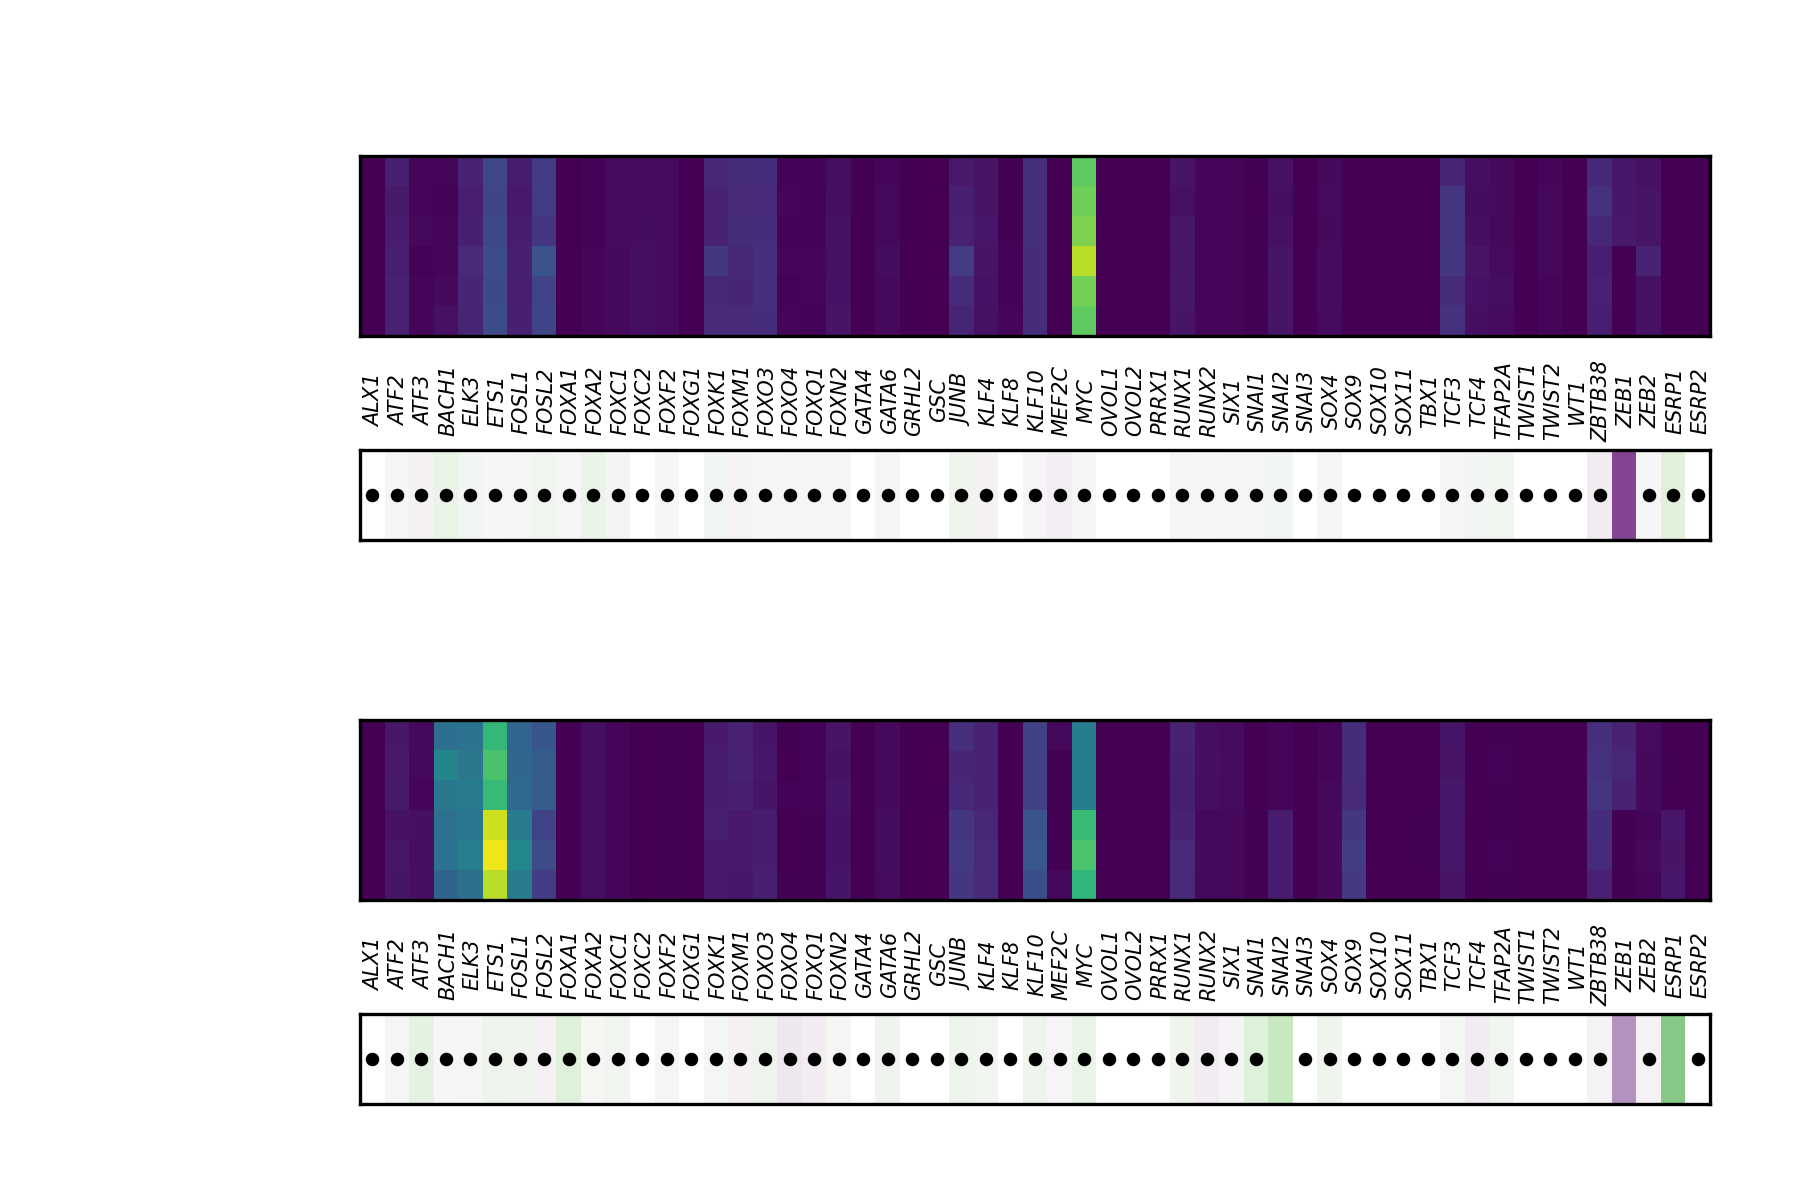
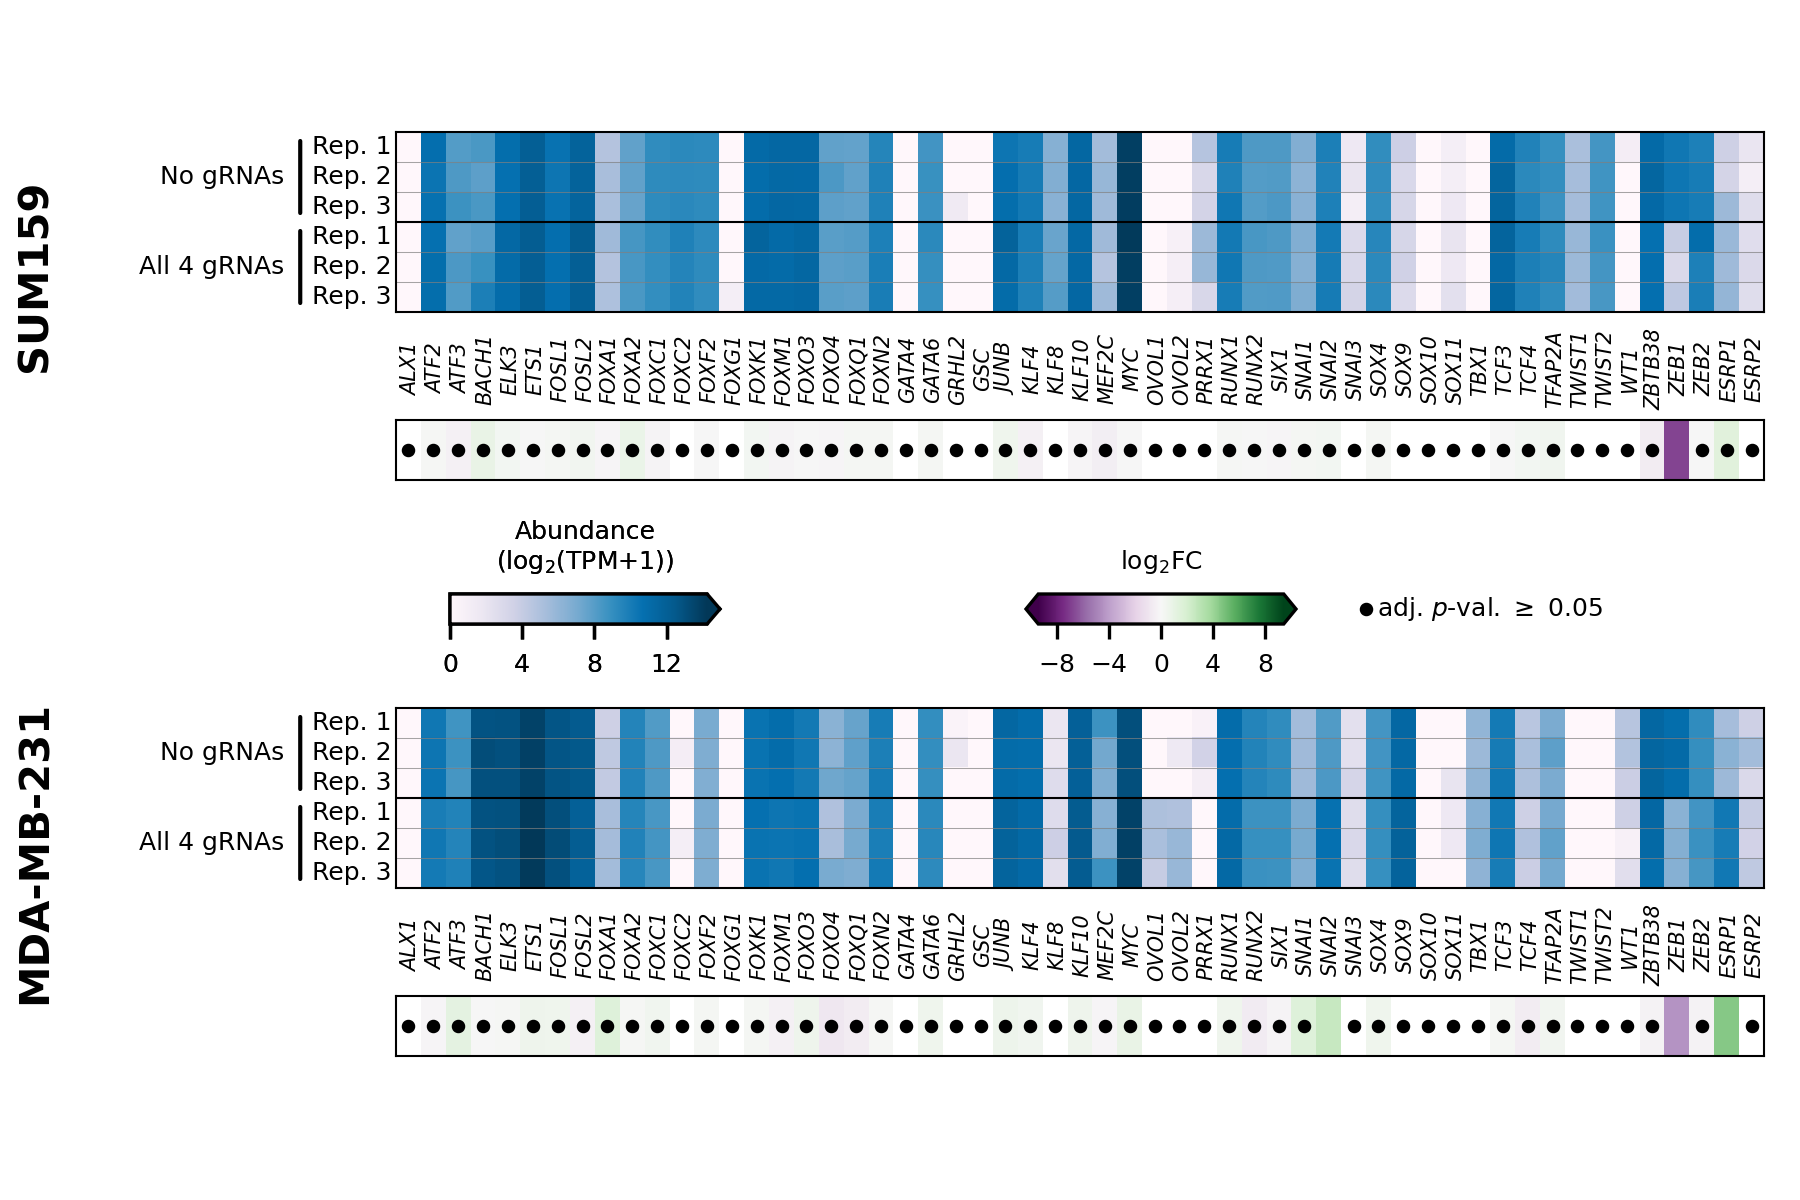
Added most of the required annotations

diff --git a/script/rnaseq_figures.py b/script/rnaseq_figures.py
@@ -1913,13 +1913,27 @@ class Plot:
 
     def emt_tfs(flagResult=False):
 
-        dictPanelPos = {'SUM159_Abund':[0.20, 0.72, 0.75, 0.15],
-                        'SUM159_logFC':[0.20, 0.55, 0.75, 0.075],
-                        'MDAMB231_Abund':[0.20, 0.25, 0.75, 0.15],
-                        'MDAMB231_logFC':[0.20, 0.08, 0.75, 0.075],
-                        'Legend_Abund':[0.25, 0.34, 0.08, 0.025],
-                        'Legend_logFC':[0.535, 0.34, 0.08, 0.025],
-                        'Legend_pVal':[0.82, 0.34, 0.08, 0.025]}
+        numMatchedPanelYSpacer = 0.14
+        numSUM159BaseYPos = 0.60
+        numMDAMB231BaseYPos = 0.12
+        numLogFCHeight = 0.05
+        numAbundHeight = 0.15
+        numMainPanelWidth = 0.76
+        numMainPanelLeft = 0.22
+
+        numLegendPanelYPos = 0.48
+        numLegendPanelWidth = 0.15
+
+        dictPanelPos = {'SUM159_Abund':[numMainPanelLeft, numSUM159BaseYPos+numMatchedPanelYSpacer, numMainPanelWidth, numAbundHeight],
+                        'SUM159_logFC':[numMainPanelLeft, numSUM159BaseYPos, numMainPanelWidth, numLogFCHeight],
+                        'MDAMB231_Abund':[numMainPanelLeft, numMDAMB231BaseYPos+numMatchedPanelYSpacer, numMainPanelWidth, numAbundHeight],
+                        'MDAMB231_logFC':[numMainPanelLeft, numMDAMB231BaseYPos, numMainPanelWidth, numLogFCHeight],
+                        'Legend_Abund':[0.25, numLegendPanelYPos, numLegendPanelWidth, 0.025],
+                        'Legend_logFC':[0.57, numLegendPanelYPos, numLegendPanelWidth, 0.025],
+                        'Legend_pVal':[0.75, numLegendPanelYPos, numLegendPanelWidth, 0.025]}
+
+        dictLineLabel = {'MDAMB231':'MDA-MB-231',
+                         "SUM159":'SUM159'}
 
         listTFs = ['ALX1', 'ATF2', 'ATF3', 'BACH1', 'ELK3', 'ETS1', 'FOSL1', 'FOSL2',
                    'FOXA1', 'FOXA2', 'FOXC1', 'FOXC2', 'FOXF2', 'FOXG1', 'FOXK1', 'FOXM1', 'FOXO3', 'FOXO4', 'FOXQ1',
@@ -1945,8 +1959,9 @@ class Plot:
         dfAbundOfInt = dfAbund.reindex(listGenesOfIntENSG).copy(deep=True)
         dfAbundOfInt.index = listGenesOfInt
 
-        arrayAllAbundData = dfAbundOfInt.values.astype(float)
-        numMaxAbund = np.max(np.abs(np.ravel(arrayAllAbundData[~np.isnan(arrayAllAbundData)])))
+        arrayAllLogAbundData = np.log2(np.nan_to_num(dfAbundOfInt.values.astype(float))+1)
+
+        numMaxAbund = np.max(np.ravel(arrayAllLogAbundData[~np.isnan(arrayAllLogAbundData)]))
 
 
         # load the logFC data
@@ -1972,24 +1987,99 @@ class Plot:
             elif strLine == 'MDAMB231':
                 strBatch = 'B2'
 
+            numCellLineYPos = dictPanelPos[f'{strLine}_logFC'][1]\
+                              + (dictPanelPos[f'{strLine}_Abund'][3] +
+                                 dictPanelPos[f'{strLine}_logFC'][3] +
+                                 numMatchedPanelYSpacer)/2
+
+            handFig.text(0.02, numCellLineYPos, dictLineLabel[strLine],
+                         ha='center', va='center', rotation=90,
+                         fontsize=10, fontweight='bold')
+
             listAbundCols = [f'{strBatch}_{strLine}_EVC_{i+1}' for i in range(3)] + \
                             [f'{strBatch}_{strLine}_gAll_{i+1}' for i in range(3)]
 
+            arrayLogAbundData = \
+                np.log2(np.nan_to_num(dfAbundOfInt[listAbundCols].transpose().values.astype(float)) + 1)
+
             handAx = handFig.add_axes(dictPanelPos[f'{strLine}_Abund'])
-            handAx.matshow(dfAbundOfInt[listAbundCols].transpose().values.astype(float),
-                           cmap=plt.cm.viridis,
+            handAbund = handAx.matshow(arrayLogAbundData,
+                           cmap=plt.cm.PuBu,
                            vmin=0,
                            vmax=numMaxAbund,
                            aspect='auto')
+            for iAnnotLine in range(5):
+                handAx.axhline(xmin=0, xmax=1,
+                               y=iAnnotLine+0.5,
+                               color='0.5', lw=0.25,
+                               ls='-', alpha=0.7)
+            handAx.axhline(xmin=0, xmax=1,
+                               y=2.5,
+                               color='k', lw=0.5,
+                               ls='-', alpha=1)
+
+            for iRep in range(3):
+                handAx.text(-0.7, iRep,f'Rep. {iRep+1}',
+                            ha='right', va='center',
+                            fontsize=6)
+            for iRep in range(3):
+                handAx.text(-0.7, iRep+3,f'Rep. {iRep+1}',
+                            ha='right', va='center',
+                            fontsize=6)
+
+            handAx.annotate(text='',
+                            xytext=(-0.07, 0.45),
+                            xy=(-0.07, 0.05),
+                            xycoords='axes fraction',
+                            textcoords='axes fraction',
+                            annotation_clip=False,
+                            arrowprops=dict(arrowstyle="-",
+                                            connectionstyle="arc3",
+                                            shrinkA=0.0, shrinkB=0.0,
+                                            color='k',
+                                            lw=1))
+            handAx.text(-5, 1,
+                        'No gRNAs',
+                        ha='right', va='center',
+                        fontsize=6)
+
+            handAx.annotate(text='',
+                            xytext=(-0.07, 0.55),
+                            xy=(-0.07, 0.95),
+                            xycoords='axes fraction',
+                            textcoords='axes fraction',
+                            annotation_clip=False,
+                            arrowprops=dict(arrowstyle="-",
+                                            connectionstyle="arc3",
+                                            shrinkA=0.0, shrinkB=0.0,
+                                            color='k',
+                                            lw=1))
+            handAx.text(-5, 4,
+                        'All 4 gRNAs',
+                        ha='right', va='center',
+                        fontsize=6)
 
             handAx.set_yticks([])
             handAx.set_xticks([])
             handAx.set_yticklabels([])
             handAx.set_xticklabels([])
 
+            for axis in ['top', 'bottom', 'left', 'right']:
+                handAx.spines[axis].set_linewidth(0.5)
+
+            handCMapAx = handFig.add_axes(dictPanelPos['Legend_Abund'])
+            handRNAColorBar = handFig.colorbar(handAbund, cax=handCMapAx, ticks=[0, 4, 8, 12],
+                                               orientation='horizontal', extend='max')
+            handRNAColorBar.ax.tick_params(labelsize=6)
+
+            handCMapAx.set_title('Abundance\n(log$_{2}$(TPM+1))',
+                                 fontsize=6)
+
+            for axis in ['top', 'bottom', 'left', 'right']:
+                handCMapAx.spines[axis].set_linewidth(0.5)
 
             handAx = handFig.add_axes(dictPanelPos[f'{strLine}_logFC'])
-            handAx.matshow(dflogFCInt[[f'{strLine}:logFC']].transpose().values.astype(float),
+            handLogFC = handAx.matshow(dflogFCInt[[f'{strLine}:logFC']].transpose().values.astype(float),
                            cmap=plt.cm.PRGn,
                            vmin=-numMaxAbsLogFC,
                            vmax=numMaxAbsLogFC,
@@ -2000,10 +2090,7 @@ class Plot:
             handAx.set_yticklabels([])
             handAx.set_xticklabels([])
 
-            # if iLine == 0:
-            strGeneLabelYPos = -1.05
-            # elif iLine == 1:
-            # strGeneLabelYPos = 1
+            strGeneLabelYPos = -1.35
 
             for iGene in range(len(listGenesOfInt)):
                 handAx.text(iGene+0.5,
@@ -2019,17 +2106,45 @@ class Plot:
                 if np.isnan(dflogFCInt.loc[strGene, f'{strLine}:adj.P.Val']):
                     handAx.scatter(iGene, 0, marker='o', color='k', s=5)
                 else:
-                    if dflogFCInt.loc[strGene, f'{strLine}:adj.P.Val'].astype(float) < 0.05:
-                        a=1
-                    else:
+                    if dflogFCInt.loc[strGene, f'{strLine}:adj.P.Val'].astype(float) >= 0.05:
                         handAx.scatter(iGene, 0, marker='o', color='k', s=5)
 
+            for axis in ['top', 'bottom', 'left', 'right']:
+                handAx.spines[axis].set_linewidth(0.5)
 
-        # handAx.text(0.01, )
+        handCMapAx = handFig.add_axes(dictPanelPos['Legend_logFC'])
+        handRNAColorBar = handFig.colorbar(handLogFC, cax=handCMapAx, ticks=[-8, -4, 0, 4, 8],
+                                           orientation='horizontal', extend='both')
+        handRNAColorBar.ax.tick_params(labelsize=6)
+
+        handCMapAx.set_title('log$_{2}$FC',
+                             fontsize=6)
+
+        for axis in ['top', 'bottom', 'left', 'right']:
+            handCMapAx.spines[axis].set_linewidth(0.5)
+
+
+        handPValAx = handFig.add_axes(dictPanelPos['Legend_pVal'])
+        handPValAx.set_xlim([0, 1])
+        handPValAx.set_ylim([0, 1])
+
+        handPValAx.scatter(0.06, 0.5, marker='o', color='k', s=5)
+        handPValAx.text(0.10, 0.5, r'adj. $p$-val. $\geq$ 0.05', fontsize=6, ha='left', va='center')
+
+        # handPValAx.set_title('log$_{2}$FC significance',
+        #                      fontsize=6)
+
+        for axis in ['top', 'bottom', 'left', 'right']:
+            handPValAx.spines[axis].set_linewidth(0)
+
+        handPValAx.set_yticks([])
+        handPValAx.set_xticks([])
+        handPValAx.set_yticklabels([])
+        handPValAx.set_xticklabels([])
 
         for strFormat in Plot.listFileFormats:
             handFig.savefig(os.path.join(Plot.strOutputLoc, 'emt_tfs.' + strFormat),
-                            ext=strFormat, dpi=300)
+                            dpi=300)
         plt.close(handFig)
 
         return flagResult
